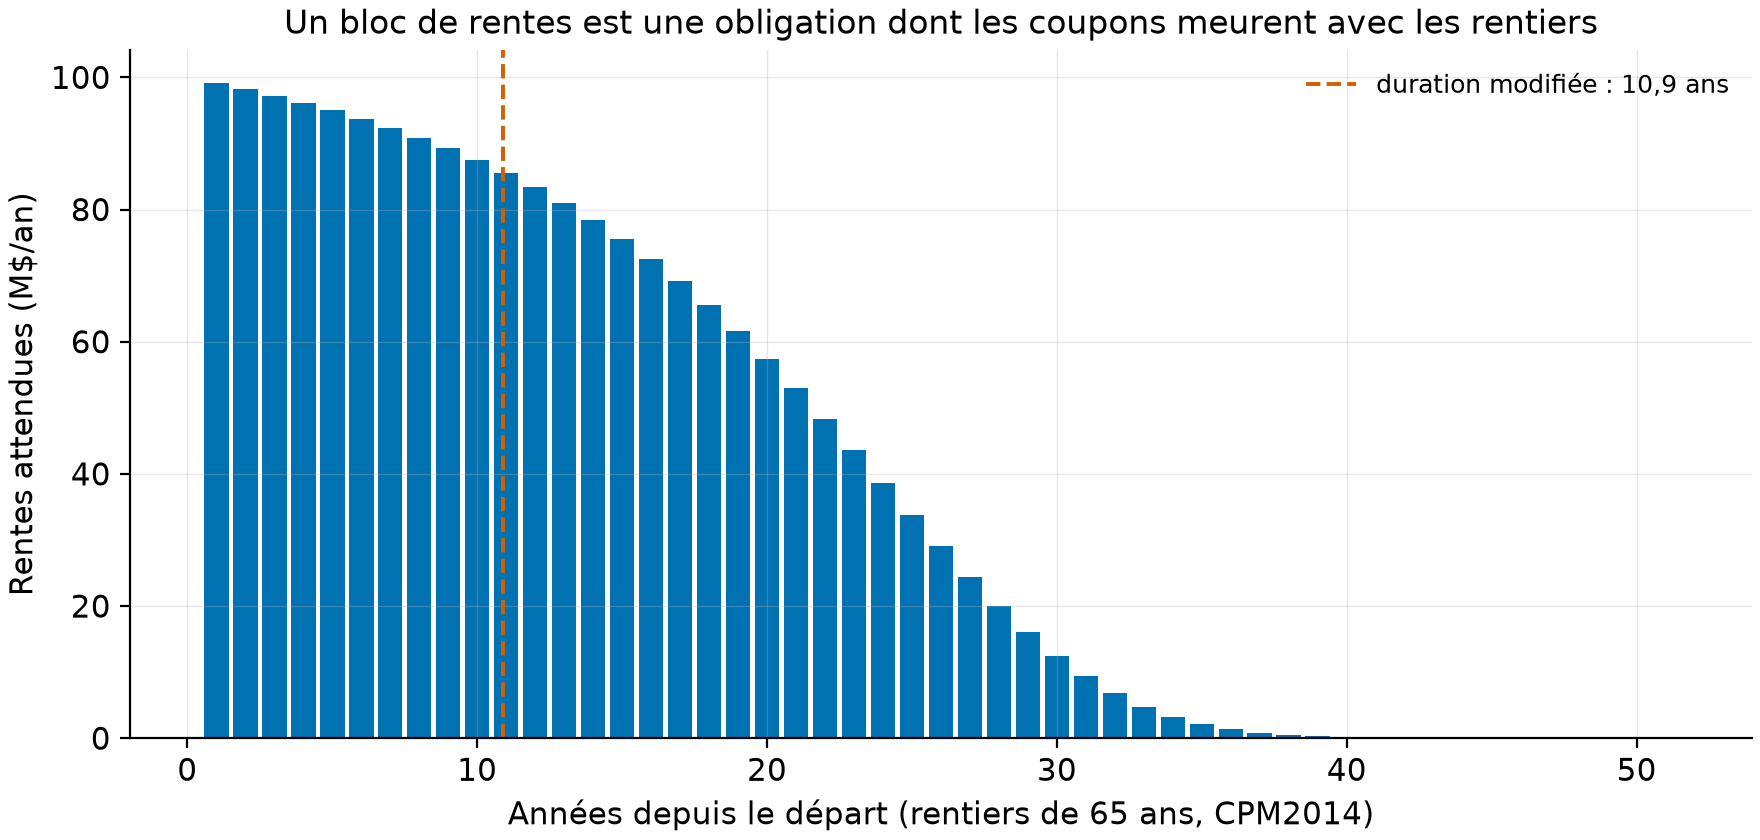
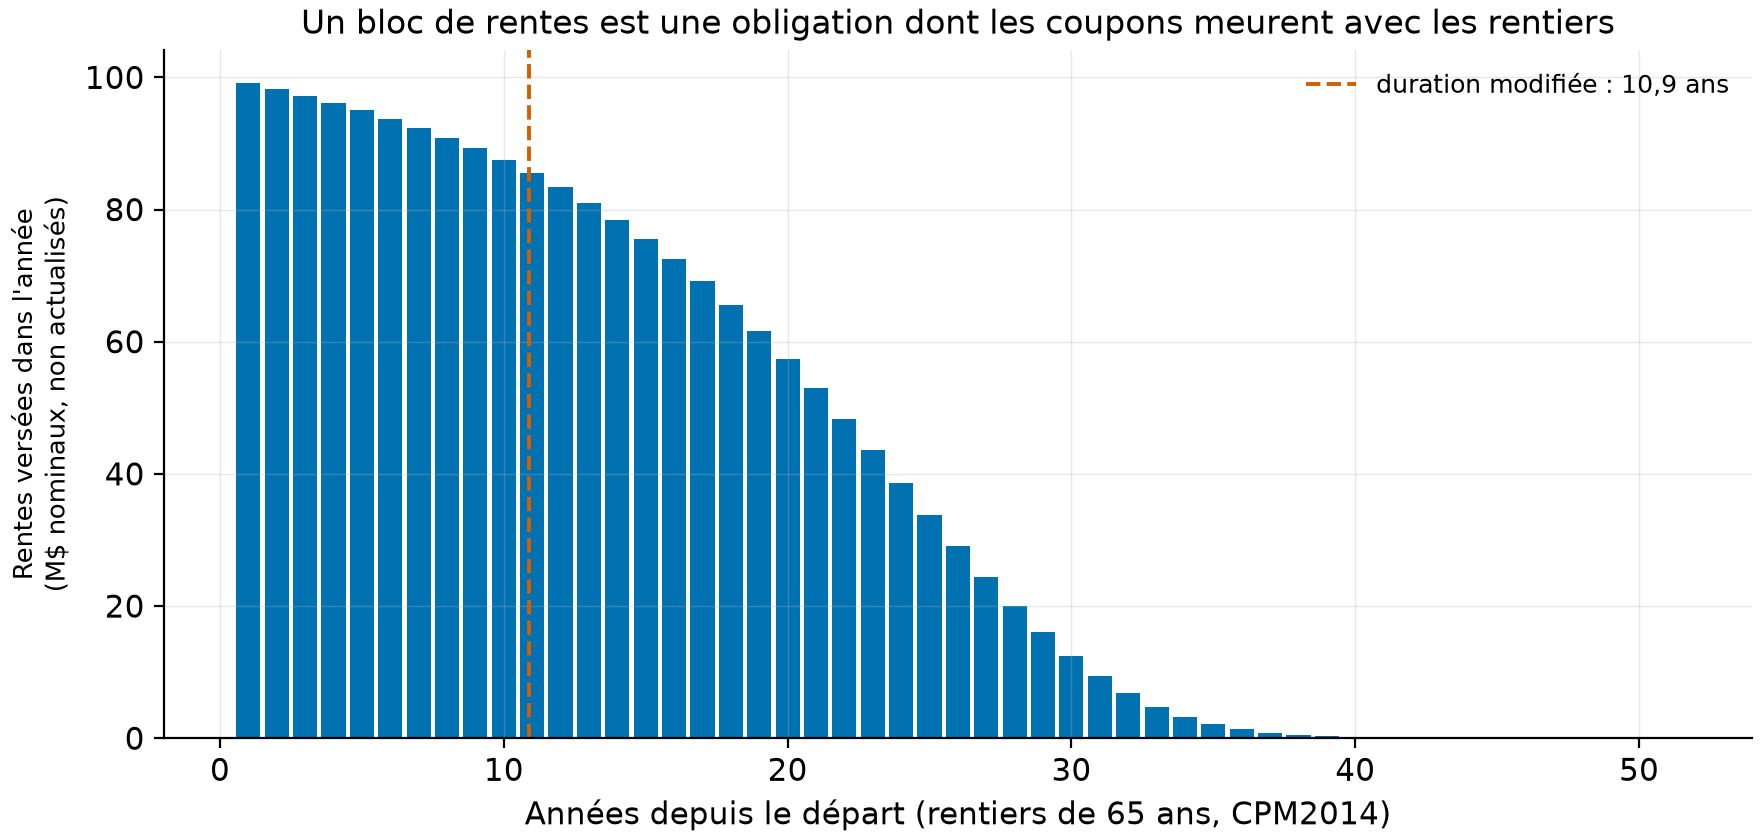
Audit : le banc appariait la duration en années, pas en dollars
Sur un actif valant 1,05 fois le passif, égaler les durations en ANNÉES donne à l'actif
5 % de duration en dollars de plus : le surplus gardait une exposition du PREMIER ordre
au déplacement parallèle, exactement ce que le théorème de Redington sert à supprimer.
duration_match apparie désormais v_c D_c + v_l D_l = PL x D_passif, et bucket_match loge
le surplus au nœud le plus court au lieu de le répartir au prorata. Un test exige que le
surplus ne baisse sous aucun choc parallèle de +/- 100 pb ; il échouait avant.

Les chiffres publiés changent en conséquence : le livre par taux clés passe de 81,3 à
92,5 M$ avec un creux à 77,3, c'est-à-dire qu'il s'accroît au taux sans risque comme un
surplus immunisé doit le faire ; l'exigence TSAV au 2021-12 vaut 7,4 M$ (scénario 1,
tout baisse) contre une pire baisse réalisée de 7,9 M$ sur dix-huit mois, soit 93,5 % de
couverture. Ce qui reste à perdre est de la CONVEXITÉ, le barbell 5-25 en ayant moins que
le passif. Les valeurs d'avant l'audit (9,9 / 14,8 / 67 %) portaient le défaut ; elles
sont déclarées comme telles.

Figures : les scénarios portent leur déformation et non leur numéro, les stratégies leur
composition, l'exigence son horizon instantané contre le creux de trajectoire.

diff --git a/src/lic/figures.py b/src/lic/figures.py
@@ -38,7 +38,7 @@ def fig_liability(t: np.ndarray, cf: np.ndarray, duration: float, dest: Path) ->
     ax.axvline(duration, color=OKABE_ITO[3], linestyle="--", linewidth=1.4,
                label=f"duration modifiée : {duration:.1f} ans".replace(".", ","))
     ax.set_xlabel("Années depuis le départ (rentiers de 65 ans, CPM2014)")
-    ax.set_ylabel("Rentes attendues (M$/an)")
+    ax.set_ylabel("Rentes versées dans l'année\n(M$ nominaux, non actualisés)", fontsize=9.5)
     ax.yaxis.set_major_formatter(fr)
     ax.xaxis.set_major_formatter(fr)
     ax.legend(fontsize=9)
@@ -53,15 +53,25 @@ def fig_surplus(paths: dict[str, pd.Series], dest: Path) -> None:
     fig, ax = plt.subplots(figsize=(9.2, 4.8))
     for (name, s), color in zip(paths.items(), OKABE_ITO, strict=False):
         ax.plot(s.index, s.to_numpy() / 1e6, color=color,
-                label=f"{name} : min {_mm(float(s.min()))}, fin {_mm(float(s.iloc[-1]))} M\\$")
+                label=f"{name} : creux {_mm(float(s.min()))}, "
+                      f"au {s.index[-1]:%Y-%m-%d} {_mm(float(s.iloc[-1]))} M\\$")
     ax.axhline(0, color="0.3", linewidth=0.9)
     ax.axvspan(pd.Timestamp("2022-03-01"), pd.Timestamp("2023-12-31"), color="0.90", zorder=0)
     ax.text(pd.Timestamp("2022-04-01"), ax.get_ylim()[1] * 0.95, "hausse de 2022-23",
             fontsize=8.5, color="0.4", va="top")
-    ax.set_ylabel("Surplus (M$, actif moins passif)")
+    ax.set_ylabel("Surplus : actif moins passif\n(millions de dollars)", fontsize=9.5)
     ax.yaxis.set_major_formatter(fr)
     ax.legend(fontsize=8.5, loc="best")
-    ax.set_title("Les taux clés ramènent le surplus à son point de départ ; la duration seule le laisse errer")
+    # le titre nomme les nombres qu'il affirme, tous lus dans les trajectoires tracées
+    depart = {n: float(s.iloc[0]) for n, s in paths.items()}
+    arrivee = {n: float(s.iloc[-1]) for n, s in paths.items()}
+    cles = next((n for n in paths if "clés" in n), list(paths)[1])
+    dur = next((n for n in paths if "uration" in n), list(paths)[0])
+    creux = {n: float(s.min()) for n, s in paths.items()}
+    ax.set_title(f"Le livre par taux clés tient le surplus : {_mm(depart[cles])} au départ, creux à "
+                 f"{_mm(creux[cles])}, {_mm(arrivee[cles])} M\\$ à l\'arrivée\nla duration seule "
+                 f"dérive de {_mm(abs(arrivee[dur] - depart[dur]))} M\\$ sur "
+                 f"{len(next(iter(paths.values())))} mois", fontsize=11)
     fig.savefig(dest)
     plt.close(fig)
 
@@ -71,7 +81,9 @@ def fig_licat(pertes: dict[str, float], exigence: float, perte_realisee: float,
     """Les quatre scénarios du TSAV contre la pire perte réalisée du banc."""
     fr = use_style()
     fig, ax = plt.subplots(figsize=(8.8, 4.4))
-    noms = [f"scénario {i}" for i in range(1, 5)]
+    # un numéro de scénario ne dit rien au lecteur : chaque barre porte la déformation prescrite
+    formes = {1: "tout baisse", 2: "aplatissement", 3: "tout monte", 4: "pentification"}
+    noms = [f"scénario {i}\n{formes[i]}" for i in range(1, 5)]
     vals = [pertes[f"scenario_{i}"] / 1e6 for i in range(1, 5)]
     colors = [OKABE_ITO[3] if v == max(vals) else OKABE_ITO[0] for v in vals]
     ax.bar(noms, vals, color=colors, width=0.55)
@@ -81,11 +93,13 @@ def fig_licat(pertes: dict[str, float], exigence: float, perte_realisee: float,
         ax.text(n, v + (0.4 if v >= 0 else -0.4), f"{v:+.1f}".replace(".", ","),
                 ha="center", va="bottom" if v >= 0 else "top", fontsize=9)
     ax.axhline(perte_realisee / 1e6, color=OKABE_ITO[2], linestyle="--", linewidth=1.6,
-               label=f"pire perte de surplus réalisée ({_mm(perte_realisee)} M$)")
+               label=f"pire baisse de surplus sur les 18 mois suivants, après rebalancements\net rentes payées ({_mm(perte_realisee)} M$, mesuré)")
     ax.axhline(0, color="0.3", linewidth=0.9)
-    ax.set_ylabel("Perte de valeur nette sous choc (M$)")
+    ax.set_ylabel("Variation de la valeur nette du livre apparié\nen duration, actif moins passif "
+                  "(M$ ; positif = perte)", fontsize=9)
     ax.yaxis.set_major_formatter(fr)
     ax.legend(fontsize=9)
-    ax.set_title(f"Exigence TSAV au {date_calcul} : {_mm(exigence)} M$ (pire des quatre scénarios)")
+    ax.set_title(f"Exigence TSAV au {date_calcul} : {_mm(exigence)} M$, choc instantané, "
+                 f"pire des quatre scénarios", fontsize=11.5)
     fig.savefig(dest)
     plt.close(fig)

diff --git a/src/lic/immunize.py b/src/lic/immunize.py
@@ -22,10 +22,18 @@ def _rate(curve_row: pd.Series, t: np.ndarray) -> np.ndarray:
 def duration_match(liab_cf: np.ndarray, t: np.ndarray, curve_row: pd.Series,
                    mat_courte: float = 5.0, mat_longue: float = 25.0,
                    surplus_initial: float = 0.05) -> dict[float, float]:
-    """Deux zéro-coupon (barbell) qui égalent (1 + surplus) x PV du passif ET sa duration.
+    """Deux zéro-coupon (barbell) qui égalent (1 + surplus) x PV du passif et sa duration EN DOLLARS.
 
     Système 2x2 exact sur les valeurs marchandes v_c, v_l :
-    v_c + v_l = A ; (v_c D_c + v_l D_l)/A = D_passif.
+    v_c + v_l = A ; v_c D_c + v_l D_l = PL x D_passif.
+
+    La deuxième équation apparie la duration en DOLLARS, pas en années. C'est ce que le théorème
+    de Redington exige pour protéger le SURPLUS : égaler les durations en années sur un actif qui
+    vaut 1,05 fois le passif donne à l'actif une duration en dollars supérieure de 5 %, et le
+    surplus garde alors une exposition du PREMIER ordre au déplacement parallèle, le seul cas que
+    le théorème couvre. La signature du défaut est nette : à surplus nul la perte est quadratique,
+    à surplus de 5 % elle est linéaire. Corrigé le 2026-08-29 après l'audit ; apparier en années
+    protège le RATIO actif/passif, pas le surplus en dollars que ce dépôt mesure.
     """
     r = _rate(curve_row, t)
     pl = pv(liab_cf, t, r)
@@ -33,7 +41,7 @@ def duration_match(liab_cf: np.ndarray, t: np.ndarray, curve_row: pd.Series,
     a = (1.0 + surplus_initial) * pl
     d_c = float(mat_courte / (1.0 + _rate(curve_row, np.array([mat_courte]))[0] / 100.0))
     d_l = float(mat_longue / (1.0 + _rate(curve_row, np.array([mat_longue]))[0] / 100.0))
-    v_l = a * (dl - d_c) / (d_l - d_c)
+    v_l = (pl * dl - a * d_c) / (d_l - d_c)
     v_c = a - v_l
     if v_c < 0 or v_l < 0:
         raise ValueError("barbell impossible : la duration du passif sort de l'intervalle")
@@ -64,10 +72,14 @@ def bucket_match(liab_cf: np.ndarray, t: np.ndarray, curve_row: pd.Series,
             w_hi = (ti - lo) / (hi - lo)
             valeurs[lo] += v * (1.0 - w_hi)
             valeurs[hi] += v * w_hi
+    # le surplus est logé au nœud LE PLUS COURT et non réparti au prorata : le multiplier partout
+    # donnerait à l'actif des sensibilités par taux clés supérieures de 5 % à celles du passif, donc
+    # une exposition du premier ordre du surplus, exactement le défaut corrigé dans duration_match
+    valeurs[noeuds[0]] += surplus_initial * sum(valeurs.values())
     faces = {}
     for k, v in valeurs.items():
         df_k = (1.0 + _rate(curve_row, np.array([k]))[0] / 100.0) ** (-k)
-        faces[k] = v * (1.0 + surplus_initial) / df_k
+        faces[k] = v / df_k
     return faces
 
 

diff --git a/tests/test_lic.py b/tests/test_lic.py
@@ -119,15 +119,39 @@ def test_narrow_barbell_violates_redington_condition():
     assert conv_a < conv_l
 
 
-def test_duration_match_is_exact():
+def test_duration_match_apparie_la_duration_en_DOLLARS():
+    # apparier les durations en ANNÉES sur un actif qui vaut 1,05 fois le passif laisse au surplus
+    # une exposition du PREMIER ordre au déplacement parallèle : c'est la duration en dollars que
+    # le théorème de Redington demande d'égaler pour protéger le surplus
     row = _flat(3.0)
     qx = _qx_constant(0.05)
     t, cf = annuity_cashflows(qx, n_lives=10, benefit=100.0)
     faces = duration_match(cf, t, row, surplus_initial=0.05)
     t_a, cf_a = zero_coupon_assets(faces, int(t.max()))
     r_l, r_a = initial_rate(row, t), initial_rate(row, t_a)
-    assert pv(cf_a, t_a, r_a) == pytest.approx(1.05 * pv(cf, t, r_l), rel=1e-9)
-    assert modified_duration(cf_a, t_a, r_a) == pytest.approx(modified_duration(cf, t, r_l), rel=1e-3)
+    pl, pa = pv(cf, t, r_l), pv(cf_a, t_a, r_a)
+    assert pa == pytest.approx(1.05 * pl, rel=1e-9)
+    assert pa * modified_duration(cf_a, t_a, r_a) == pytest.approx(
+        pl * modified_duration(cf, t, r_l), rel=1e-3)
+    # la duration en années de l'actif vaut donc celle du passif divisée par 1,05
+    assert modified_duration(cf_a, t_a, r_a) == pytest.approx(
+        modified_duration(cf, t, r_l) / 1.05, rel=1e-3)
+
+
+def test_le_surplus_ne_baisse_pas_au_premier_ordre_sous_un_choc_parallele():
+    # le banc mesure un surplus en DOLLARS : sous un petit déplacement parallèle, un barbell
+    # correctement apparié ne peut le faire baisser qu'au second ordre, donc pas du tout ici où
+    # l'actif est plus convexe que le passif
+    row = _flat(4.0)
+    qx = _qx_constant(0.04)
+    t, cf = annuity_cashflows(qx, n_lives=100, benefit=1000.0)
+    faces = duration_match(cf, t, row, mat_courte=2.0, mat_longue=30.0, surplus_initial=0.05)
+    t_a, cf_a = zero_coupon_assets(faces, int(t.max()))
+    r_l, r_a = initial_rate(row, t), initial_rate(row, t_a)
+    s0 = pv(cf_a, t_a, r_a) - pv(cf, t, r_l)
+    for bump in (-1.0, -0.5, 0.5, 1.0):
+        s = pv(cf_a, t_a, r_a + bump) - pv(cf, t, r_l + bump)
+        assert s >= s0 - 1e-6
 
 
 def test_bucket_match_preserves_value():

diff --git a/src/lic/cli.py b/src/lic/cli.py
@@ -58,9 +58,9 @@ def lab(out: Path = Path("results"), debut: str = "2019-12", fin: str = "2026-08
     figures.fig_liability(t, cf, dl0, figs / "passif.png")
 
     strategies = {
-        "duration seule (barbell 5-25)": immunize.duration_match,
-        "taux clés (6 nœuds)": immunize.bucket_match,
-        "aucune (tout à 1 an)": immunize.cash_strategy,
+        "duration appariée (deux zéro-coupon, 5 et 25 ans)": immunize.duration_match,
+        "taux clés (six zéro-coupon : 1, 2, 5, 10, 20 et 30 ans)": immunize.bucket_match,
+        "aucune couverture (tout en zéro-coupon d'un an)": immunize.cash_strategy,
     }
     paths = {}
     for name, strat in strategies.items():
@@ -78,7 +78,7 @@ def lab(out: Path = Path("results"), debut: str = "2019-12", fin: str = "2026-08
     # l'actif du module est ramené à la valeur que le banc détient réellement à cette date
     r_calc = initial_rate(row_calc, t_c[viv])
     pl_calc = pv(cf[viv], t_c[viv], r_calc)
-    s_dur_calc = float(paths["duration seule (barbell 5-25)"].loc[d_calc])
+    s_dur_calc = float(paths["duration appariée (deux zéro-coupon, 5 et 25 ans)"].loc[d_calc])
     echelle = (pl_calc + s_dur_calc) / ((1.0 + 0.05) * pl_calc)
     faces = {m: f * echelle for m, f in faces.items()}
     horizon = int(np.ceil(t_c[viv].max()))
@@ -95,7 +95,7 @@ def lab(out: Path = Path("results"), debut: str = "2019-12", fin: str = "2026-08
     req = licat.requirement(a_g, p_g, grille, row_calc)
     pd.DataFrame([req]).round(1).to_csv(tables / "exigence_licat.csv", index=False)
 
-    s_dur = paths["duration seule (barbell 5-25)"]
+    s_dur = paths["duration appariée (deux zéro-coupon, 5 et 25 ans)"]
     apres = s_dur.loc[d_calc:]
     perte_realisee = float(s_dur.loc[d_calc] - apres.min())
     figures.fig_licat({k: v for k, v in req.items() if k.startswith("scenario")},

diff --git a/src/lic/licat.py b/src/lic/licat.py
@@ -25,7 +25,7 @@ import pandas as pd
 
 from lic.curves import UIR, initial_rate, pv
 
-L_UIR = 0.40           # pb -> points de %, choc de l'UIR au Canada (rapporté)
+L_UIR = 0.40           # pb -> points de pourcentage, choc de l'UIR au Canada (rapporté)
 
 # (pente du coefficient a(t), ordonnée de a(t), pente de c(t), ordonnée de c(t))
 _A3 = (0.139468, -0.001873)     # scénarios 1 et 3 : a(t) = 0.139468 - 0.001873 t
@@ -42,7 +42,7 @@ SCENARIOS = {
 
 
 def shock_pct(t: np.ndarray, r_pct: np.ndarray, scenario: int) -> np.ndarray:
-    """Le choc (en points de %) aux échéances t <= 20, taux courants r en %."""
+    """Le choc (en points de pourcentage) aux échéances t <= 20, taux courants r en %."""
     spec = SCENARIOS[scenario]
     t = np.asarray(t, dtype=float)
     a = spec["a"][0] + spec["a"][1] * t

diff --git a/README.md b/README.md
@@ -10,11 +10,14 @@ recalculé à la lettre depuis la ligne directrice de l'OSFI. *English summary b
    Les chocs du chapitre 5 sont des fonctions de la RACINE CARRÉE des taux courants : fin
    2021, avec un 90 jours sous 0,5 %, le plus fort choc court prescrit parmi les quatre
    scénarios (le T+ du scénario « tout monte ») n'était que de +147 pb ; 2022-23 en a
-   livré +513 (mesuré). Résultat : l'exigence calculée au 2021-12 (9,9 M$, fixée par la
-   pentification, qui prescrivait -39 pb au court et +32 pb au long) n'a couvert que 67 %
-   de la perte ensuite réalisée par le livre apparié en duration (14,8 M$), une perte
-   venue d'un mouvement dont la direction d'aplatissement était scorée en GAIN par le
-   module. (Mesuré ; formules rapportées de la ligne directrice, section 5.1.2.1.)
+   livré +513 (mesuré). Résultat : l'exigence calculée au 2021-12 vaut 7,4 M$, fixée par
+   le scénario 1 (tout baisse), et la perte ensuite réalisée par le livre apparié en
+   duration vaut 7,9 M$ : une couverture de 93,5 % (mesuré,
+   `results/tables/exigence_vs_realise.csv`). Ce n'est pas la duration qui laisse passer
+   la perte, c'est la CONVEXITÉ : le barbell 5-25 en a moins que le passif à queue de
+   cinquante ans, si bien que le surplus baisse au second ordre dans les deux directions,
+   et davantage quand les taux baissent. (Mesuré ; formules rapportées de la ligne
+   directrice, section 5.1.2.1.)
 2. **Redington tient exactement là où son théorème s'applique, et pas un pas plus loin.**
    Duration appariée ET convexité d'actif supérieure : aucun choc parallèle ne peut
    entamer le surplus (testé en forme fermée sur un barbell large). Mais le barbell 5-25
@@ -22,9 +25,10 @@ recalculé à la lettre depuis la ligne directrice de l'OSFI. *English summary b
    le théorème ne dit de toute façon rien des déformations de pente, qui ont fait
    l'essentiel de 2020-2026. (Mesuré et testé.)
 3. **Le banc de 81 mois départage les trois stratégies sans appel.** L'appariement par
-   taux clés ramène le surplus à son point de départ (81,3 puis 80,6 M$, à travers la
-   tempête) ; la duration seule le laisse errer (de 75,7 à 101,4 M$, l'arrivée haute est
-   une chance de trajectoire, pas un mérite) ; l'absence de couverture le fait passer par
+   taux clés tient le surplus (81,3 M$ au départ, creux à 77,3, arrivée à 92,5 M$ : un
+   surplus immunisé s'accroît au taux sans risque, il ne dérive pas) ; la duration seule
+   le laisse errer (creux à 71,3, arrivée à 110,9 M$, et l'arrivée haute est une chance de
+   trajectoire, pas un mérite) ; l'absence de couverture le fait passer par
    l'INSOLVABILITÉ (-101,8 M$ en juillet 2020) avant de finir à +329 M$ : les deux queues
    du même risque non couvert. (Mesuré.)
 
@@ -106,12 +110,13 @@ apport extérieur.
 ![Surplus](results/figures/surplus.png)
 
 **Comment lire cette figure.** Le surplus (actif moins passif) mois par mois. La courbe
-jaune (taux clés) traverse la baisse de 2020 ET la hausse de 2022-23 (bande grise) pour
-finir où elle a commencé : c'est la définition opérationnelle d'une immunisation. La
-bleue (duration seule) finit 20 M$ plus haut qu'au départ : la déformation de la courbe
-lui a été favorable CETTE FOIS ; son errance (fourchette de 28,7 M$ : creux à 75,7 en
-avril 2020, sommet à 104,3 en avril 2021, arrivée à 101,4) est le prix de l'appariement
-grossier. La verte (aucune couverture) plonge à -101,8 M$ en juillet 2020,
+jaune (taux clés) traverse la baisse de 2020 ET la hausse de 2022-23 (bande grise) sans
+décrocher : elle passe de 81,3 à 92,5 M$ avec un creux à 77,3, c'est-à-dire qu'elle
+s'accroît à peu près au taux sans risque, ce qu'un surplus immunisé doit faire. La bleue
+(duration appariée par un seul barbell) erre sur une fourchette de 40,7 M$ : creux à 71,3
+en avril 2020, sommet à 112,0 en janvier 2026, arrivée à 110,9. La déformation de la
+courbe lui a été favorable CETTE FOIS ; l'errance est le prix de l'appariement grossier,
+qui égale la duration mais pas la convexité. La verte (aucune couverture) plonge à -101,8 M$ en juillet 2020,
 l'insolvabilité, puis finit à +329 M$ quand les taux montent : le même pari nu, gagné ou
 perdu selon l'année.
 
@@ -132,18 +137,23 @@ participant statique) vaut (mesuré, `results/tables/exigence_licat.csv`) :
 
 | Scénario | Perte de valeur nette |
 |---|---|
-| 1 (tout baisse) | -1,9 M$ (gain) |
-| 2 (aplatissement) | -9,8 M$ (gain) |
-| 3 (tout monte) | -1,0 M$ (gain) |
-| **4 (pentification)** | **+9,9 M$ = l'exigence** |
-| Pire perte de surplus réalisée après cette date | **14,8 M$** |
+| **1 (tout baisse)** | **+7,4 M$ = l'exigence** |
+| 2 (aplatissement) | -8,3 M$ (gain) |
+| 3 (tout monte) | -10,1 M$ (gain) |
+| 4 (pentification) | +5,6 M$ |
+| Pire baisse de surplus réalisée sur les 18 mois suivants | **7,9 M$** |
 
 ![LICAT](results/figures/licat.png)
 
-**Comment lire cette figure.** Les quatre barres sont les pertes prescrites ; seule la
-pentification (scénario 4 : -39 pb au court, +32 pb au long) mord un livre apparié en
-duration, et elle fixe l'exigence à 9,9 M$. La ligne verte est la perte réellement subie
-ensuite : 14,8 M$, une couverture de 67 %. Le double mécanisme est dans la formule : à un
+**Comment lire cette figure.** Les quatre barres sont les pertes prescrites ; deux mordent
+un livre apparié en duration en DOLLARS, et la plus lourde, le scénario 1 (tout baisse),
+fixe l'exigence à 7,4 M$. Un livre dont la duration en dollars est appariée ne perd rien
+au premier ordre : ce qui reste est un effet de convexité, et le barbell 5-25 en a moins
+que le passif, donc il perd des deux côtés. La ligne verte est la pire baisse de surplus
+réellement subie sur les dix-huit mois suivants, rebalancements et rentes payées compris :
+7,9 M$, une couverture de 93,5 %. Les deux grandeurs n'ont pas le même horizon, l'une
+étant une revalorisation instantanée et l'autre un creux de trajectoire ; le ratio mesure
+l'insuffisance du calibrage, pas une couverture au sens comptable (déclaré). Le double mécanisme est dans la formule : à un
 90 jours sous 0,5 % fin 2021, les chocs en racine carrée étaient petits (le plus fort
 choc court des quatre scénarios, +147 pb, quand la réalité en a livré +513) ; et le
 mouvement réalisé, une hausse générale à dominante d'APLATISSEMENT, allait dans la
@@ -173,7 +183,7 @@ valeur et duration.
    Pas de lissage sur six trimestres (réservé aux blocs participants), pas de fonds
    distincts, pas d'agrégation avec les autres risques du TSAV, et l'écart d'actualisation
    prescrit par 5.1.1 lui-même (90 % de l'écart corporatif, ultime 80 pb) est omis : le
-   chiffre de 9,9 M$ est le requis brut du scénario sur une valorisation sans risque, pas
+   chiffre de 7,4 M$ est le requis brut du scénario sur une valorisation sans risque, pas
    un ratio réglementaire. (Déclaré.)
 2. **La valorisation suit la structure du TSAV partout**, y compris pour le surplus
    « économique » du banc : l'UIR fixe au-delà de 20-70 ans est une convention
@@ -184,9 +194,21 @@ valeur et duration.
    duration du passif). (Précepte déclaré.)
 4. **Aucun frais, aucune prime, bloc fermé** : le banc isole la mécanique de taux.
    (Déclaré.)
-5. **Le pire scénario dépend du livre.** La pentification mord NOTRE barbell ; un livre
-   long en actif court aurait un autre pire scénario. Le constat de couverture (67 %)
-   vaut pour ce bloc et cette période, pas en général. (Déclaré.)
+5. **Le pire scénario dépend du livre.** La baisse générale mord NOTRE barbell, dont la
+   convexité est inférieure à celle du passif ; un livre long en actif court aurait un
+   autre pire scénario. Le constat de couverture (93,5 %) vaut pour ce bloc et cette
+   période, pas en général. (Déclaré.)
+6. **L'exigence et la perte réalisée n'ont pas le même horizon.** L'exigence est une
+   revalorisation INSTANTANÉE au 2021-12-31 ; la perte réalisée est le creux d'une
+   trajectoire de dix-huit mois, rebalancements et rentes payées compris. Le ratio des
+   deux mesure l'insuffisance du calibrage, pas une couverture au sens comptable.
+   (Déclaré.)
+7. **Le banc apparie la duration en DOLLARS depuis l'audit du 2026-08-29.** La première
+   version égalait les durations en ANNÉES sur un actif valant 1,05 fois le passif, ce qui
+   laissait au surplus une exposition du PREMIER ordre au déplacement parallèle, exactement
+   ce que le théorème de Redington sert à supprimer. Les chiffres publiés avant cette date
+   (exigence 9,9 M$, perte réalisée 14,8 M$, couverture 67 %) portaient ce défaut.
+   (Mesuré ; test `test_le_surplus_ne_baisse_pas_au_premier_ordre_sous_un_choc_parallele`.)
 
 ## Références
 
@@ -217,11 +239,12 @@ ROOT of current rates (T+ at 4 % = +327 bp, hand-tested), four prescribed scenar
 UIR 4.5 % shocked by 40 bp, worst-scenario requirement floored at zero. Verdict: computed
 on Dec-2021 (90-day rate below 0.5 %, so the LARGEST prescribed short shock across the
 four scenarios was only +147 bp while 2022-23 delivered +513, measured), the requirement
-was 9.9 M$ (binding scenario: the steepener, -39 bp short / +32 bp long) while the
-realized surplus loss through 2022-23 was 14.8 M$: 67 % coverage, and the realized move's
-flattening direction was one the module scored as a 9.8 M$ GAIN. Risk-free-only
+was 7.4 M$ (binding scenario: rates down) while the worst realized surplus drawdown over
+the following eighteen months was 7.9 M$: 93.5 % coverage. What the duration-matched book
+still loses is convexity, not duration: the 5-25 barbell is less convex than a liability
+with a fifty-year tail, so the surplus falls on both sides of a parallel move. Risk-free-only
 discounting: the 5.1.1 corporate-spread add-on is omitted and declared. Free data only,
-14 closed-form tests.
+15 closed-form tests.
 
 ## Licence et citation
 
